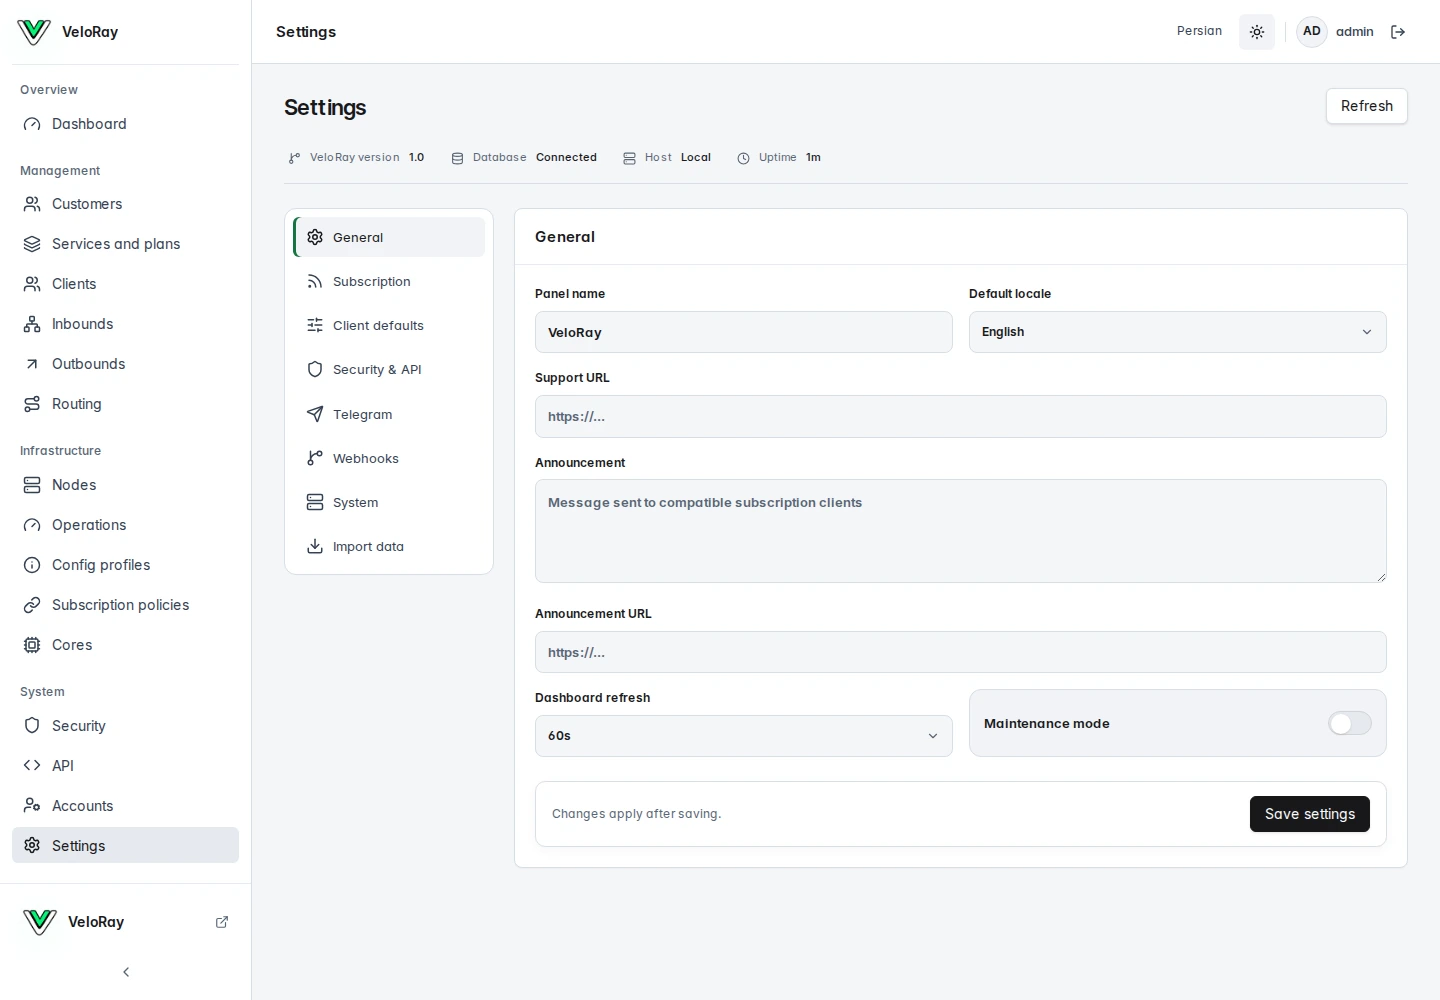
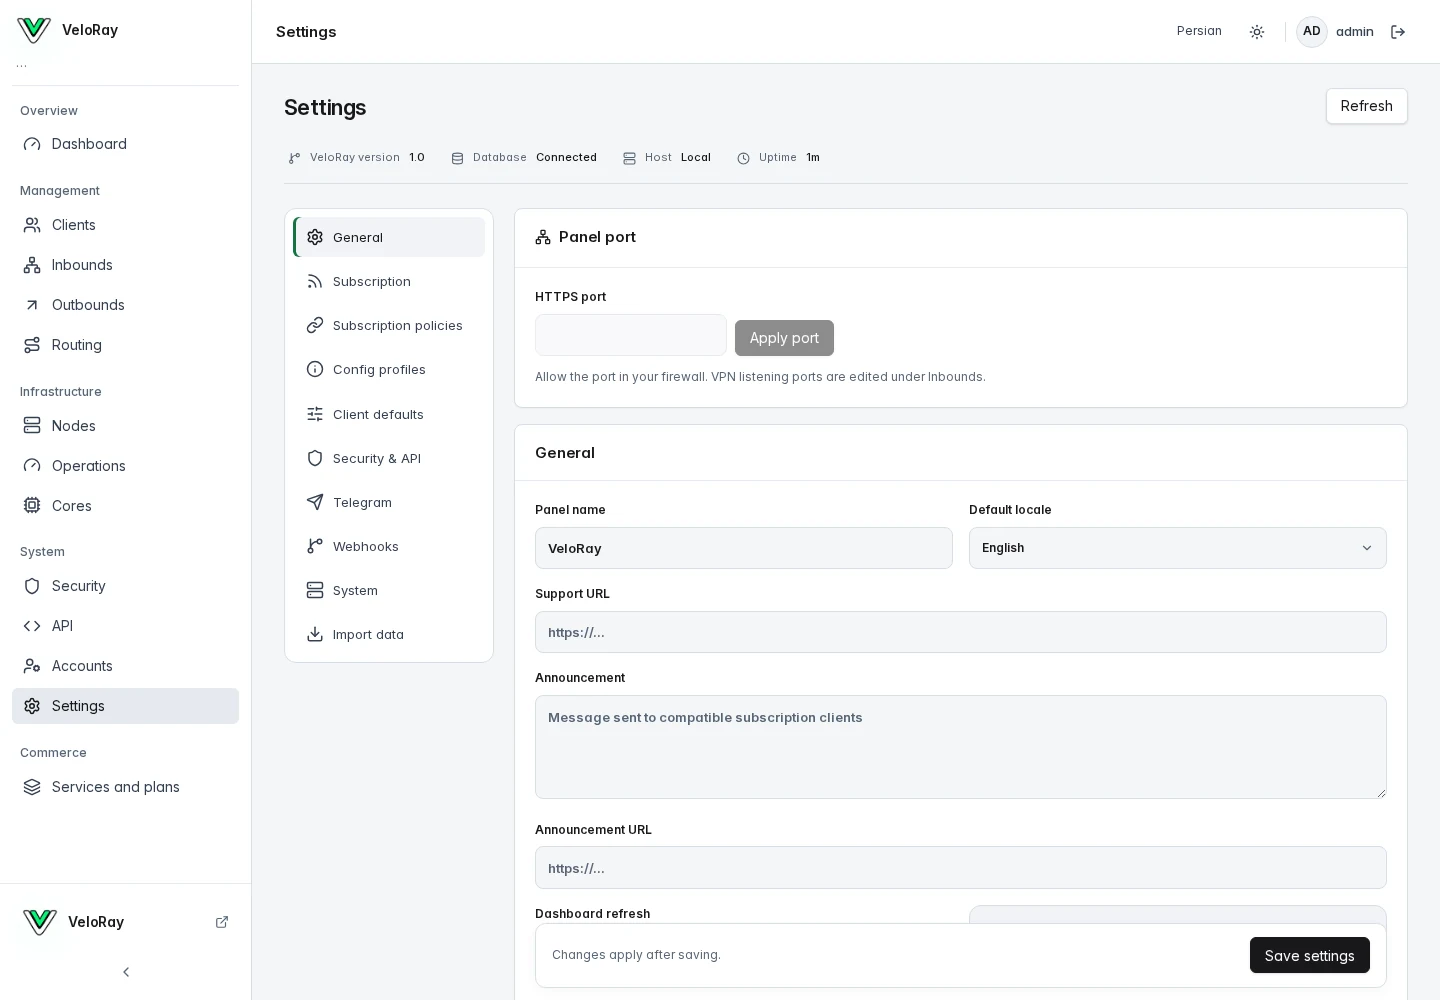
Refresh screenshots and explain retained installation settings

diff --git a/deploy/docker/manage.py b/deploy/docker/manage.py
@@ -508,7 +508,9 @@ def install(source):
     if (CONFIG / 'migration-pending.json').exists():
         raise ValueError('A native migration was interrupted. Run sudo python3 /opt/veloray/docker-current/deploy/docker/manage.py recover-migration before reinstalling')
     if (CONFIG / '.env').exists():
-        say('Existing Docker data and keys will be preserved.', 'اطلاعات و کلیدهای نصب قبلی حفظ میشوند.')
+        say('Existing Docker installation found. Reusing its address, ports and data.', 'نصب قبلی Docker پیدا شد؛ آدرس، پورتها و دادههای آن حفظ میشوند.')
+        say('Address setup runs on a fresh installation. To change ports, open Settings → General or Settings → Subscription.',
+            'تنظیم آدرس هنگام نصب تازه انجام میشود. برای تغییر پورت به تنظیمات ← عمومی یا تنظیمات ← اشتراک بروید.')
         if (CONFIG / 'installing').exists():
             install_step('Build application images', 'آمادهسازی ایمیجها')
             compose('build', 'panel', 'proxy')
@@ -552,10 +554,15 @@ def native_environment_for_install(path):
     return read_env(path)
 
 
-def show_credentials(values, migrated=False):
-    say('\n  ✓ Installation complete', '\n  ✓ نصب کامل شد', '32')
+def show_credentials(values, migrated=False, resumed=False):
+    if resumed:
+        say('\n  ✓ Existing installation is running', '\n  ✓ نصب قبلی در حال اجراست', '32')
+    else:
+        say('\n  ✓ Installation complete', '\n  ✓ نصب کامل شد', '32')
     say('  Panel: ' + origin(values), '  آدرس پنل: ' + origin(values))
     if not migrated:
+        sub = origin(dict(values, VELORAY_PANEL_PORT=values['VELORAY_SUBSCRIPTION_PORT']))
+        say('  Subscription listener: ' + sub, '  آدرس سرویس اشتراک: ' + sub)
         say('  Username: ' + values['VELORAY_ADMIN_USERNAME'], '  نام کاربری: ' + values['VELORAY_ADMIN_USERNAME'])
         # Only the interactive operator sees the generated credential; never tee
         # it into the installation log or a CI artifact.
@@ -569,7 +576,7 @@ def show_credentials(values, migrated=False):
     say('  Management: sudo veloray', '  مدیریت: sudo veloray')
     say('  Reset password: sudo veloray reset\n', '  تغییر رمز: sudo veloray reset\n')
     if values.get('VELORAY_TLS_MODE') == 'local':
-        say('HTTPS uses a local certificate. Set a domain using sudo veloray domain HOST for public TLS.', 'گواهی HTTPS محلی است؛ برای گواهی معتبر دامنه را با sudo veloray domain HOST تنظیم کنید.', '33')
+        say('TLS: local certificate. To switch to a domain, run sudo veloray domain YOUR_DOMAIN.', 'TLS: گواهی محلی. برای تغییر به دامنه، sudo veloray domain YOUR_DOMAIN را اجرا کنید.', '33')
 
 
 def backup(path=None):
@@ -835,7 +842,7 @@ def upgrade(source, sha):
     if values.get('VELORAY_INSTALLED_COMMIT') == sha:
         up()
         install_tools()
-        show_credentials(values, migrated=True)
+        show_credentials(values, migrated=True, resumed=True)
         return
     before = dict(values)
     # Build while the previous services remain live. Revisions have unique tags.
@@ -861,9 +868,10 @@ def upgrade(source, sha):
         write_env(before)
         restore(recovery, confirmed=True)
         raise
-    say('✓ Docker update completed.', '✓ آپدیت کانتینرها کامل شد.', '32')
     if INSTALL_LOG is not None:
-        show_credentials(values, migrated=True)
+        show_credentials(values, migrated=True, resumed=True)
+    else:
+        say('✓ Docker update completed.', '✓ آپدیت کانتینرها کامل شد.', '32')
 
 
 def set_address(key, value):

diff --git a/README.fa.md b/README.fa.md
@@ -28,6 +28,8 @@ bash <(curl -fsSL https://raw.githubusercontent.com/ParsaZali/VeloRay/main/insta
 3. برای دامنه HTTPS خودکار و برای آیپی گواهی محلی تنظیم میشود.
 4. آدرس چاپشده را باز کنید و با **نام کاربری و رمز تصادفی ساختهشده** وارد شوید.
 
+این سؤالها فقط در نصب تازه نمایش داده میشوند. اجرای دوبارهٔ نصاب روی نصب قبلی Docker، حتی پس از حذف با حفظ داده، از آدرس و پورتهای ذخیرهشده استفاده میکند. برای تغییر دامنه `sudo veloray domain YOUR_DOMAIN` را اجرا کنید. پورت پنل در **تنظیمات ← عمومی** و پورت اشتراک در **تنظیمات ← اشتراک** قابل تغییر است.
+
 **Docker Engine و Compose خودکار نصب میشوند.** پایگاه داده، پنل، ساب مستقل، ایجنت، Xray، sing-box، پروتکلهای بومی و Caddy داخل کانتینر اجرا میشوند. دادهها، مصرف، هستههای مدیریتشده و وضعیت HTTPS در volume پایدار نگهداری میشوند. کلیدها و رمز اولیه داخل `/etc/veloray/docker/` با دسترسی مخصوص root هستند. نیازی به نصب Go یا Node.js نیست.
 
 برای انتقال نصب مستقیم قبلی، دوباره دستور نصب سریع را اجرا کنید؛ ابتدا ایمیج ساخته و بکاپ هماهنگ گرفته میشود و سپس حسابها، لینکها، سهمیه و شناسهٔ ثبت مصرف منتقل میشوند. اگر انتقال شکست بخورد، سرویسهای قبلی برمیگردند. آپدیت معمول نصب مستقیم، روش اجرا را خودکار تغییر نمیدهد. گزینهٔ `--mode native` نصب مستقیم قدیمی روی Ubuntu 24.04 را نگه میدارد.
@@ -83,7 +85,7 @@ bash <(curl -fsSL https://raw.githubusercontent.com/ParsaZali/VeloRay/main/insta
 
 ## تصاویر
 
-این تصاویر با حسابهای نمایشی تهیه شدهاند و حاوی اطلاعات کاربران واقعی نیستند.
+این تصاویر از رابط فعلی VeloRay با حسابهای نمایشی و ترافیک نمونه گرفته شدهاند.
 
 <img src="docs/media/dashboard.webp" alt="داشبورد مصرف و سلامت نودها در VeloRay" width="100%">
 
@@ -93,7 +95,7 @@ bash <(curl -fsSL https://raw.githubusercontent.com/ParsaZali/VeloRay/main/insta
 
 <img src="docs/media/login.webp" alt="ورود به VeloRay" width="100%">
 <img src="docs/media/subscription.webp" alt="صفحه ساده اشتراک" width="800">
-<img src="docs/media/subscription-mobile.webp" alt="صفحه اشتراک VeloRay روی موبایل" width="320">
+<img src="docs/media/subscription-mobile.webp" alt="صفحه اشتراک VeloRay و نمودار مصرف روی موبایل" width="390">
 
 </details>
 

diff --git a/README.md b/README.md
@@ -30,6 +30,8 @@ The installer takes you through the essentials:
 3. A domain uses automatic HTTPS; an IP uses a local certificate.
 4. Open the printed address and sign in with the **generated username and password**.
 
+These prompts appear on a fresh installation. Re-running the installer on an existing Docker installation reuses its saved address and ports, even after a removal with retained data. Change the domain with `sudo veloray domain YOUR_DOMAIN`, the panel port in **Settings → General**, and the subscription port in **Settings → Subscription**.
+
 **Docker Engine and Compose are installed automatically.** PostgreSQL, the panel, subscription server, agent, Xray, sing-box, native protocols and Caddy run inside containers. Durable volumes preserve database records, traffic ledgers, managed cores and HTTPS state. Encryption keys and the generated initial password remain under the root-only `/etc/veloray/docker/` directory. Domain HTTPS needs correct DNS and available ports 80/443. IP-only installation uses local HTTPS.
 
 Rerun the quick installer to migrate an existing native installation. It builds first, creates a coordinated private backup, preserves accounts, subscription tokens, quota and ledger identity, then starts Docker. Native services are restored on a failed migration. Existing native `veloray update` stays native; it does not silently migrate. See the [Docker guide](docs/container-deployment.md) for recovery, custom certificates and deployment boundaries. Add `--mode native` for the legacy Ubuntu 24.04 installer.
@@ -102,7 +104,7 @@ bash <(curl -fsSL https://raw.githubusercontent.com/ParsaZali/VeloRay/main/insta
 
 ## Screenshots
 
-Screenshots use demonstration accounts, not production credentials.
+Screenshots were captured from the current VeloRay interface with demo accounts and sample traffic.
 
 <img src="docs/media/dashboard.webp" alt="VeloRay dashboard showing usage and node health" width="100%">
 
@@ -113,7 +115,7 @@ Screenshots use demonstration accounts, not production credentials.
 
 <img src="docs/media/login.webp" alt="VeloRay login with light/dark appearance and language selection" width="100%">
 <img src="docs/media/subscription.webp" alt="Default subscription page with quota, expiry, app formats, QR and traffic history" width="800">
-<img src="docs/media/subscription-mobile.webp" alt="VeloRay subscription on mobile" width="320">
+<img src="docs/media/subscription-mobile.webp" alt="VeloRay subscription on mobile with its traffic chart" width="390">
 
 </details>
 
